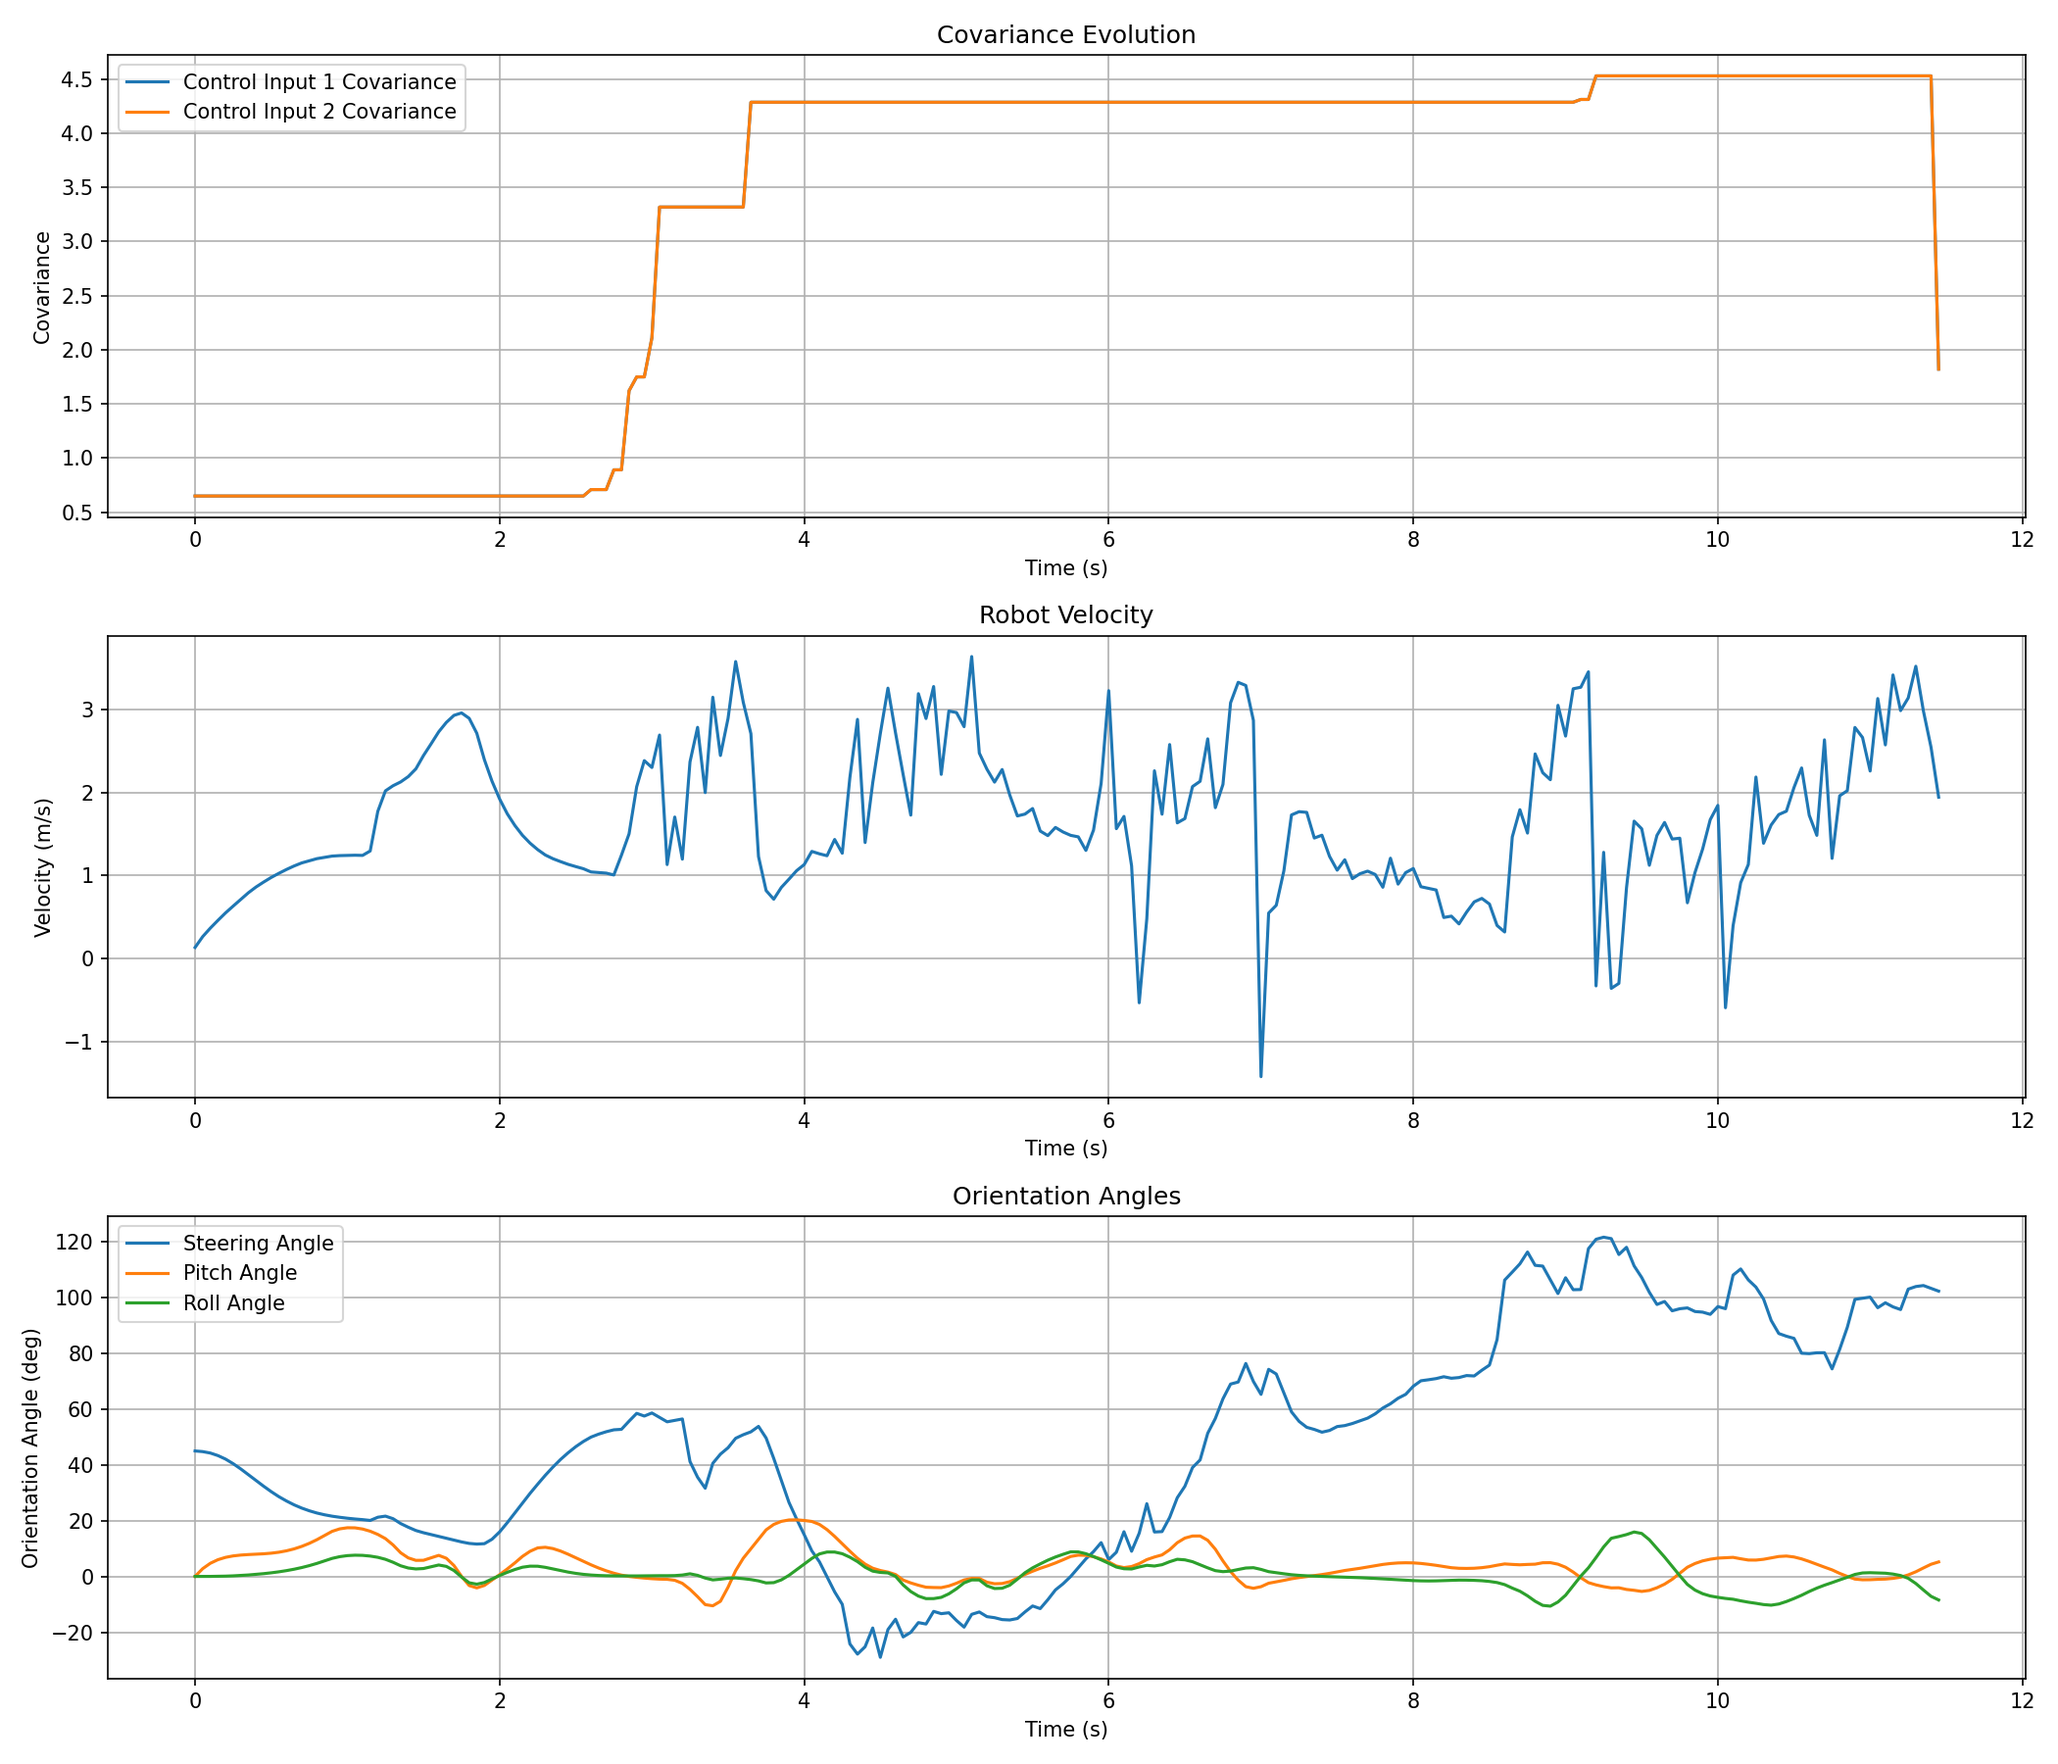
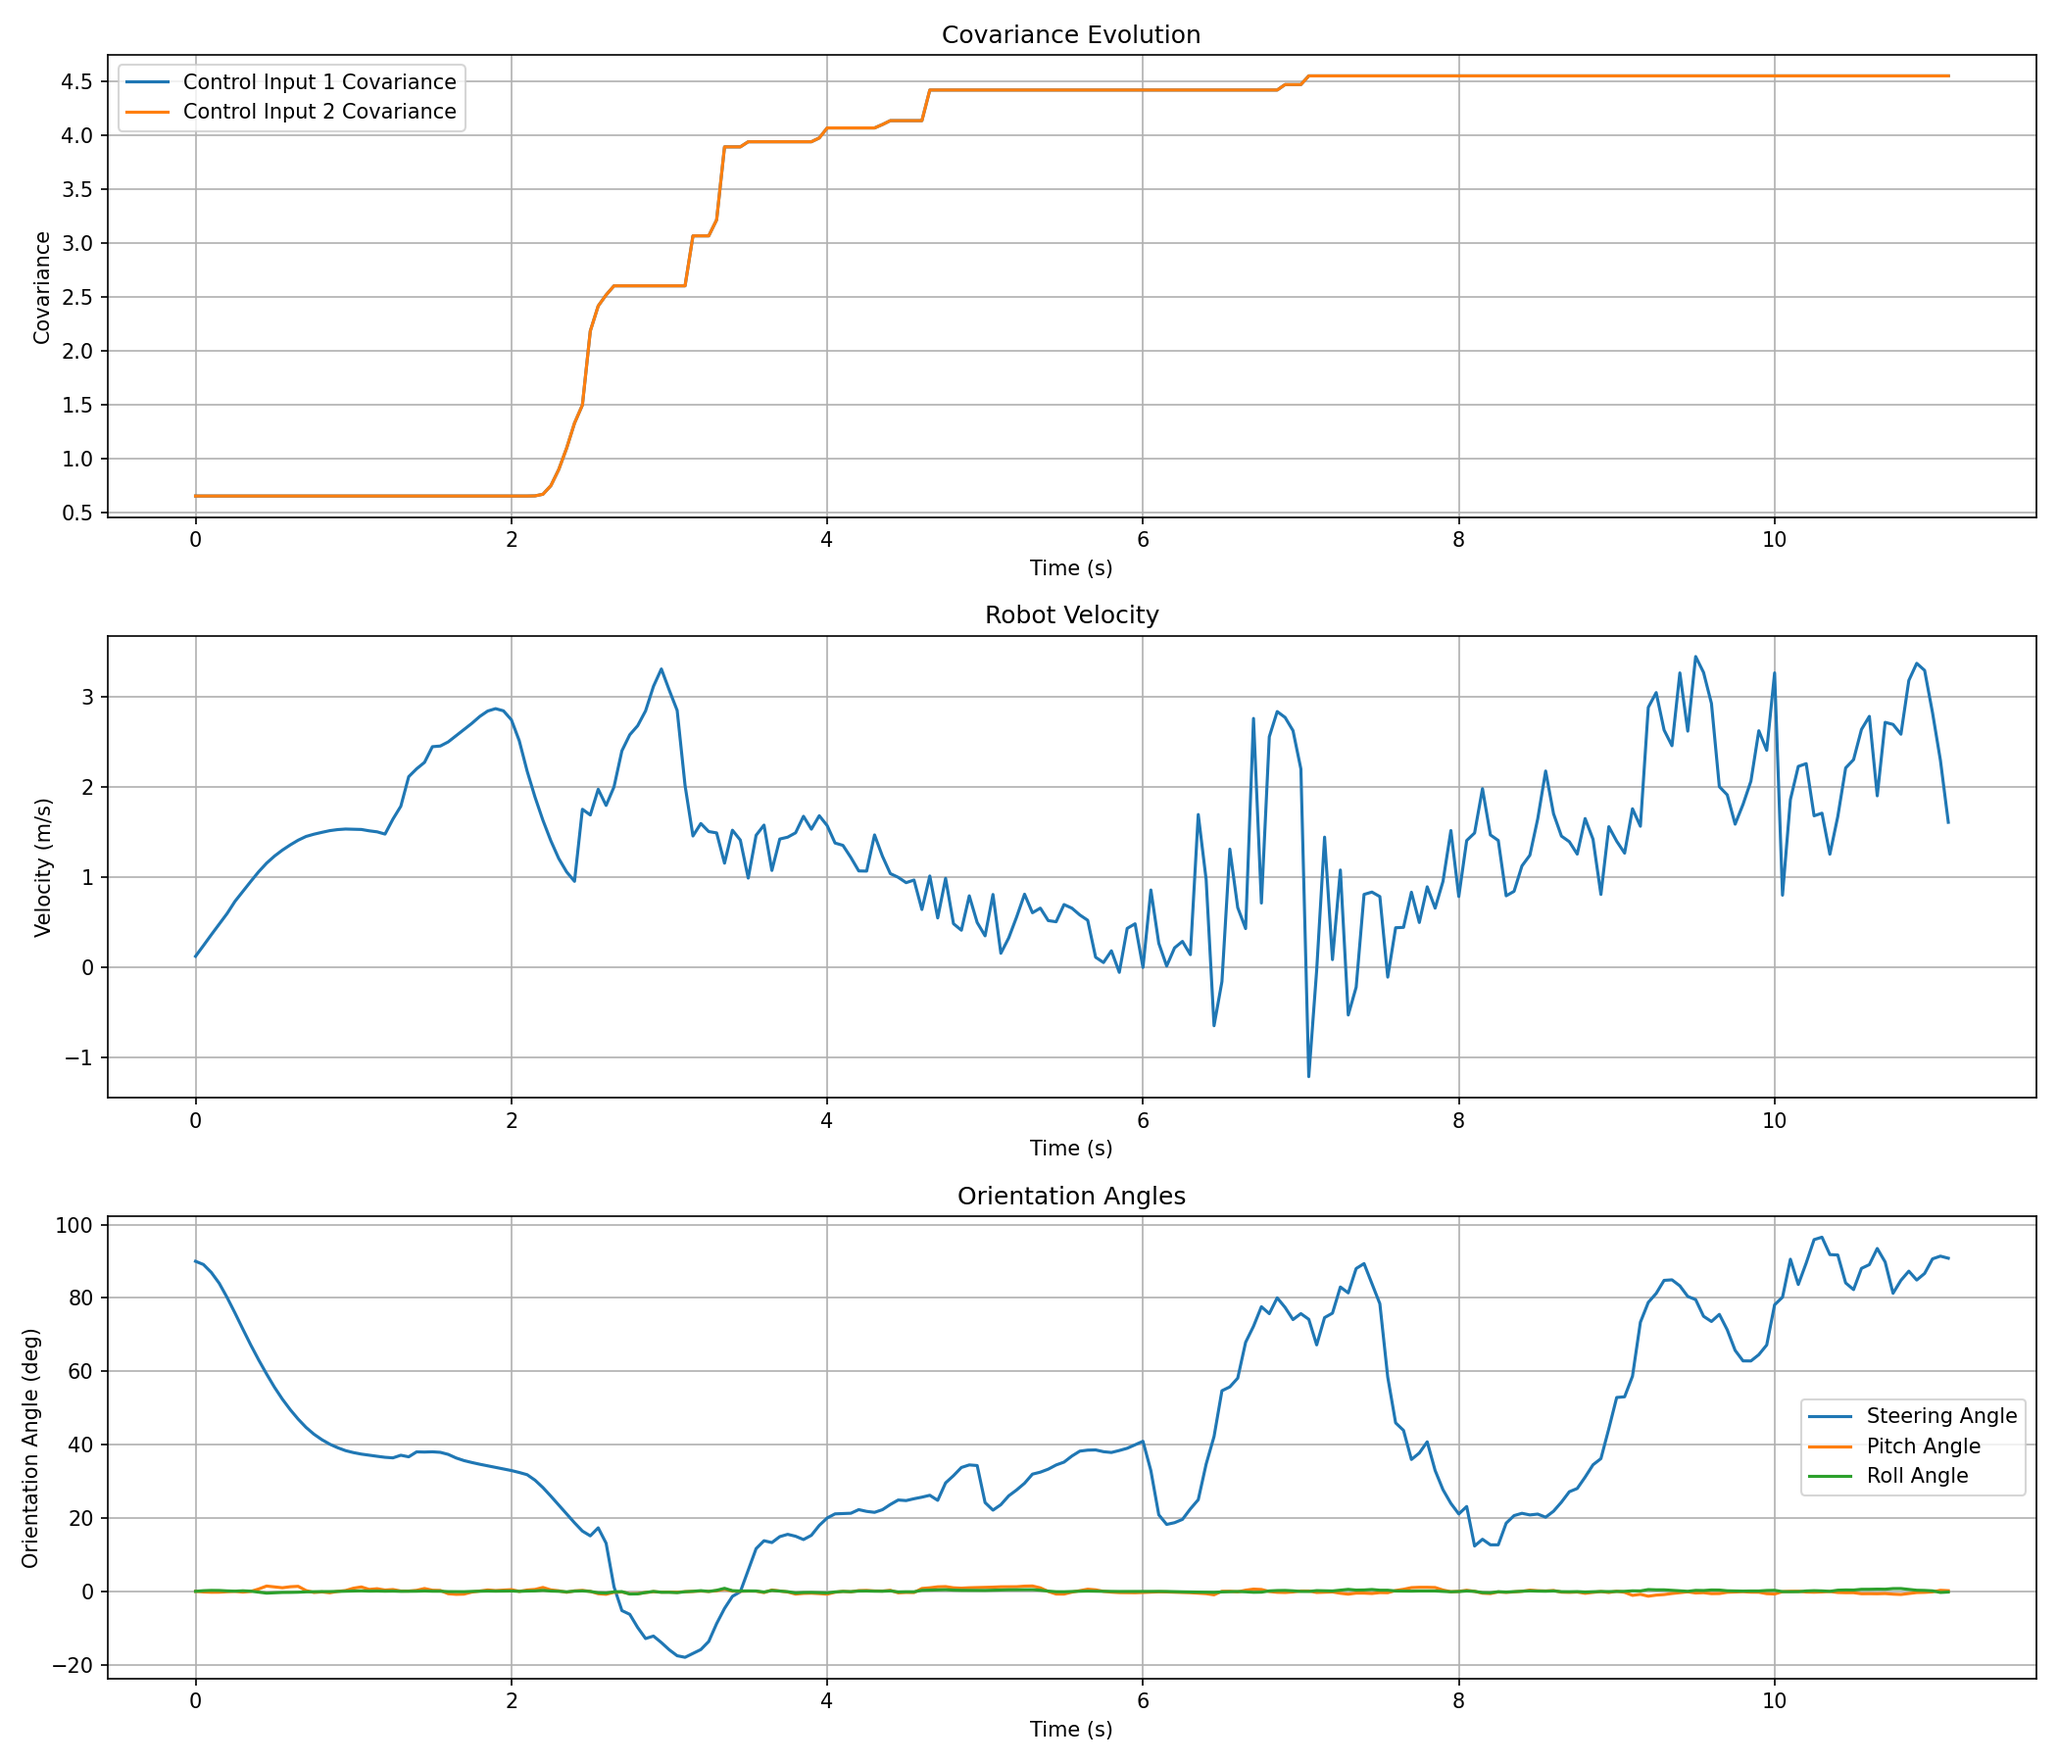
camera and waypoint selection bugfixes

diff --git a/src/dynProbMPPI_test.py b/src/dynProbMPPI_test.py
@@ -36,9 +36,9 @@ env.add_obstacle(
              mode=ObstacleMode.STATIC)
 )
 
-print("Environment Obstacles: ")
-for obs in env.obstacles:
-    print(f"  Position: {obs.position}, Radius: {obs.radius}, Velocity: {obs.velocity}, Mode: {obs.mode}")
+#print("Environment Obstacles: ")
+#for obs in env.obstacles:
+#    print(f"  Position: {obs.position}, Radius: {obs.radius}, Velocity: {obs.velocity}, Mode: {obs.mode}")
 
 # ============================================================================
 # Configure MPPI
@@ -76,8 +76,8 @@ else:
     noise_mod = np.array([0.65, 0.65])
     ctrl_label_1 = "Left Wheel Velocity"
     ctrl_label_2 = "Right Wheel Velocity"
-    x0 = np.array([0.0, 0.0, np.pi/2, 0.0, 0.0])
-    x_goal = np.array([10.0, 10.0, np.pi/4, 0.0, 0.0])
+    x0 = np.array([0.0, 0.0, 0.0, 0.0, 0.0])
+    x_goal = np.array([10.0, 10.0, 0.0, 0.0, 0.0])
 
 
 config = MPPIConfig(
@@ -120,10 +120,10 @@ dem = DEMBuilder(origin=env_origin, cell_size=env_cell_size, grid_size=env_grid_
 waypoint_selector = WaypointSelector(
     grid_resolution=0.5,
     grid_half_size=6,
-    goal_weight=1.0,
-    obstacle_weight=10.0,
-    terrain_weight=3.0,
-    heading_weight=1.5,
+    goal_weight=10.0,
+    obstacle_weight=5.0,
+    terrain_weight=3.5,
+    heading_weight=1.0,
     d_safe=config.d_safe
 )
 
@@ -147,7 +147,7 @@ num_steps = 500
 num_safe = 0
 goal_reached = False
 
-perception_interval = 2  # steps
+perception_interval = 1  # steps
 
 print("Running Dynamic MPPI Simulation...")
 sim_start_time = time.time()
@@ -183,7 +183,7 @@ for step in range(num_steps):
             goal_pos=x_goal[:2],
             obs_positions=obs_positions,
             obs_radii=obs_radii,
-            terrain_cost_fn=dem.get_cost_at_points,
+            terrain_cost_fn=dem.get_cost_at_points
         )
 
     subgoal_log.append(subgoal)
@@ -446,5 +446,28 @@ plt.savefig(filename, dpi=150)
 # plt.show()
 
 print("Data Visualization Saved.")
-dem.visualize()
+
+# DEM Visualization
+plt.figure(figsize=(12, 6))
+plt.subplot(2, 2, 1)
+plt.title("Sensed Terrain Elevation")
+plt.imshow(dem.elevation.T, extent=(xmin, xmax, ymin, ymax), origin='lower', cmap='terrain', alpha=0.75,
+           vmin=terrain_min, vmax=terrain_max)
+plt.colorbar(label='Elevation')
+plt.subplot(2, 2, 2)
+plt.title("Sensed Terrain Cost")
+cost = dem.get_traversability_cost()
+plt.imshow(cost.T, extent=(xmin, xmax, ymin, ymax), origin='lower', cmap='viridis', alpha=0.75)
+plt.colorbar(label='Cost')
+plt.subplot(2, 2, 3)
+plt.title("Ground Truth Terrain")
+plt.imshow(env.terrain.T, extent=(xmin, xmax, ymin, ymax), origin='lower', cmap='terrain', alpha=0.75)
+plt.colorbar(label='Elevation')
+plt.subplot(2, 2, 4)
+plt.title("Sensed Terrain Confidence")
+plt.imshow(dem.confidence.T, extent=(xmin, xmax, ymin, ymax), origin='lower', cmap='plasma', alpha=0.75)
+plt.colorbar(label='Confidence')
+plt.tight_layout()
+dem_filename = f'./media/Visualizations/DEM_rendering/observed_dem_{t_fin:.2f}.png'
+plt.savefig(dem_filename, dpi=150)
 mppi.free_gpu_buffers()

diff --git a/controllers/waypointSelector.py b/controllers/waypointSelector.py
@@ -25,7 +25,7 @@ class WaypointSelector:
         center_idx = grid_half_size * self.grid_dim + grid_half_size
         self.offsets = np.delete(self.offsets, center_idx, axis=0)  # Remove the center point (0,0) from the offsets
 
-        self.current_waypoint = np.zeros(2, dtype=np.float32)  # Initialize current waypoint to (0,0)
+        self.current_waypoint = None  # Forces replan on first call
 
     def compute_heuristic(self, candidate_points: np.ndarray, robot_pos: np.ndarray, robot_heading: float,
                           goal_pos: np.ndarray, obs_positions: np.ndarray, obs_radii: np.ndarray,
@@ -36,7 +36,7 @@ class WaypointSelector:
         robot_goal_dist = np.linalg.norm(robot_pos - goal_pos)
         candidate_goal_dist = np.linalg.norm(candidate_points - goal_pos, axis=1)
         progress = robot_goal_dist - candidate_goal_dist  # Positive if candidate is closer to goal
-        h_goal = self.goal_weight * progress  # Closer to goal is better
+        h_goal = -1*self.goal_weight * progress  # Closer to goal is better
 
         # Obstacle heuristic
         if len(obs_positions) > 0:
@@ -64,11 +64,7 @@ class WaypointSelector:
         angle_diff = np.minimum(angle_diff, 2 * np.pi - angle_diff)
         h_heading = self.heading_weight * angle_diff
 
-        # Candidate distance heuristic
-        candidate_dist = np.linalg.norm(candidate_points - robot_pos, axis=1)
-        h_distance = 0.1 * candidate_dist  # Encourage closer waypoints
-
-        return h_goal + h_obs + h_terrain + h_heading + h_distance
+        return h_goal + h_obs + h_terrain + h_heading
 
     def select_waypoint(self, robot_pos: np.ndarray, robot_heading: float,
                         goal_pos: np.ndarray, obs_positions: np.ndarray,
@@ -101,8 +97,10 @@ class WaypointSelector:
         h = self.compute_heuristic(candidate_points, robot_pos, robot_heading,
                                    goal_pos, obs_positions, obs_radii, terrain_costs)
         
-        best_idx = np.argmax(h)
+        best_idx = np.argmin(h)
         self.current_waypoint = candidate_points[best_idx]
+
+        print(f"Selected Waypoint: {self.current_waypoint}, Heuristic Value: {h[best_idx]:.4f}")
 
         return self.current_waypoint
 
@@ -114,9 +112,15 @@ class WaypointSelector:
         if replan_threshold is None:
             replan_threshold = self.grid_resolution
 
+        waypoint_blocked = False
+        if self.current_waypoint is not None and len(obs_positions) > 0:
+            dists_to_wp = np.linalg.norm(self.current_waypoint - obs_positions, axis=1) - obs_radii
+            waypoint_blocked = np.any(dists_to_wp < self.d_safe)
+
         needs_replan = (
             self.current_waypoint is None or
-            np.linalg.norm(self.current_waypoint - robot_pos) < replan_threshold
+            np.linalg.norm(self.current_waypoint - robot_pos) < replan_threshold or
+            waypoint_blocked
         )
 
         if needs_replan:

diff --git a/terrain_estimators/DEM_builder.py b/terrain_estimators/DEM_builder.py
@@ -49,7 +49,7 @@ def _fuse_point(points, sigmas, patch_sizes, elevation, precision, confidence,
 
 @njit
 def _compute_slope(rows, cols, elevation, observed, cell_size):
-    slope = np.full((cols, rows), 100.0, dtype=np.float32)
+    slope = np.zeros((cols, rows), dtype=np.float32)
 
     for c in range(1, cols - 1):
         for r in range(1, rows - 1):
@@ -58,16 +58,16 @@ def _compute_slope(rows, cols, elevation, observed, cell_size):
                     observed[c, r-1] and observed[c, r+1]):
                 continue
 
-            dz_dx = (elevation[c, r+1] - elevation[c, r-1]) / (2 * cell_size)
-            dz_dy = (elevation[c+1, r] - elevation[c-1, r]) / (2 * cell_size)
-            slope[c, r] = np.sqrt(dz_dx**2 + dz_dy**2)
+            dz_dc = (elevation[c+1, r] - elevation[c-1, r]) / (2 * cell_size)
+            dz_dr = (elevation[c, r+1] - elevation[c, r-1]) / (2 * cell_size)
+            slope[c, r] = np.sqrt(dz_dc**2 + dz_dr**2)
 
     return slope
 
 
 @njit
 def _compute_roughness(window, rows, cols, elevation, observed):
-    roughness = np.full((cols, rows), 100.0, dtype=np.float32)
+    roughness = np.zeros((cols, rows), dtype=np.float32)
 
     for c in range(window, cols - window):
         for r in range(window, rows - window):
@@ -148,7 +148,7 @@ class DEMBuilder:
                                        self.elevation, self.observed)
 
         # weights
-        w_slope = 5.0
+        w_slope = 8.0
         w_rough = 10.0
         w_uncertain = 2.0
 
@@ -177,17 +177,3 @@ class DEMBuilder:
         cols = np.clip(np.floor(grid_coords[:, 0]).astype(int), 0, self.grid_size[1] - 1)
         cost = self.get_traversability_cost()
         return cost[rows, cols]
-    
-    def visualize(self):
-        import matplotlib.pyplot as plt
-        plt.figure(figsize=(12, 6))
-        plt.subplot(1, 2, 1)
-        plt.title("Elevation")
-        plt.imshow(self.elevation.T, origin='lower', cmap='terrain')
-        plt.colorbar(label='Elevation (m)')
-        plt.subplot(1, 2, 2)
-        plt.title("Traversability Cost")
-        cost = self.get_traversability_cost()
-        plt.imshow(cost.T, origin='lower', cmap='inferno')
-        plt.colorbar(label='Cost')
-        plt.show()

diff --git a/dynamics/cuda_dynamics.py b/dynamics/cuda_dynamics.py
@@ -39,19 +39,17 @@ def true_terrain_slope_cuda(px, py, terrain, terrain_info):
     fx = gx - ix
     fy = gy - iy
 
-    # Bilinear interpolation of slope values
+    # Gradient of the bilinear interpolant: dz/dx and dz/dy
+    # These are the actual terrain slopes, not interpolated elevation values
     slope_x = (
-        terrain[ix, iy] * (1 - fx) * (1 - fy) +
-        terrain[ix + 1, iy] * fx * (1 - fy) +
-        terrain[ix, iy + 1] * (1 - fx) * fy +
-        terrain[ix + 1, iy + 1] * fx * fy
-    )
+        (terrain[ix + 1, iy]     - terrain[ix, iy])     * (1 - fy) +
+        (terrain[ix + 1, iy + 1] - terrain[ix, iy + 1]) * fy
+    ) / dx
+
     slope_y = (
-        terrain[ix, iy] * (1 - fx) * (1 - fy) +
-        terrain[ix + 1, iy] * fx * (1 - fy) +
-        terrain[ix, iy + 1] * (1 - fx) * fy +
-        terrain[ix + 1, iy + 1] * fx * fy
-    )
+        (terrain[ix, iy + 1]     - terrain[ix, iy])     * (1 - fx) +
+        (terrain[ix + 1, iy + 1] - terrain[ix + 1, iy]) * fx
+    ) / dy
 
     return slope_x, slope_y
 

diff --git a/terrain_estimators/camera.py b/terrain_estimators/camera.py
@@ -132,9 +132,9 @@ class Camera:
         pixels = self.generate_pixel_grid()
         rays = self.pixel_to_rays(pixels)
         
-        theta = np.radians(robot_heading)
-        world_dx = (rays[:, 0] * np.cos(theta) - rays[:, 2] * np.sin(theta)).astype(np.float32)
-        world_dy = (rays[:, 0] * np.sin(theta) + rays[:, 2] * np.cos(theta)).astype(np.float32)
+        theta = robot_heading  # already in radians
+        world_dx = (rays[:, 2] * np.cos(theta) + rays[:, 0] * np.sin(theta)).astype(np.float32)
+        world_dy = (rays[:, 2] * np.sin(theta) - rays[:, 0] * np.cos(theta)).astype(np.float32)
         world_dz = rays[:, 1].astype(np.float32)
 
         self.d_rays_dx.copy_to_device(world_dx)

diff --git a/controllers/cuda_kernels.py b/controllers/cuda_kernels.py
@@ -629,7 +629,6 @@ def mc_cost_and_min_dist_kernel(
                     d_clr = dist - robot_radius
                     if d_clr < min_d:
                         min_d = d_clr
-
             # Boundary cost
             if px < bounds[0] + robot_radius:
                 cost += Q_obs * (bounds[0] + robot_radius - px)
